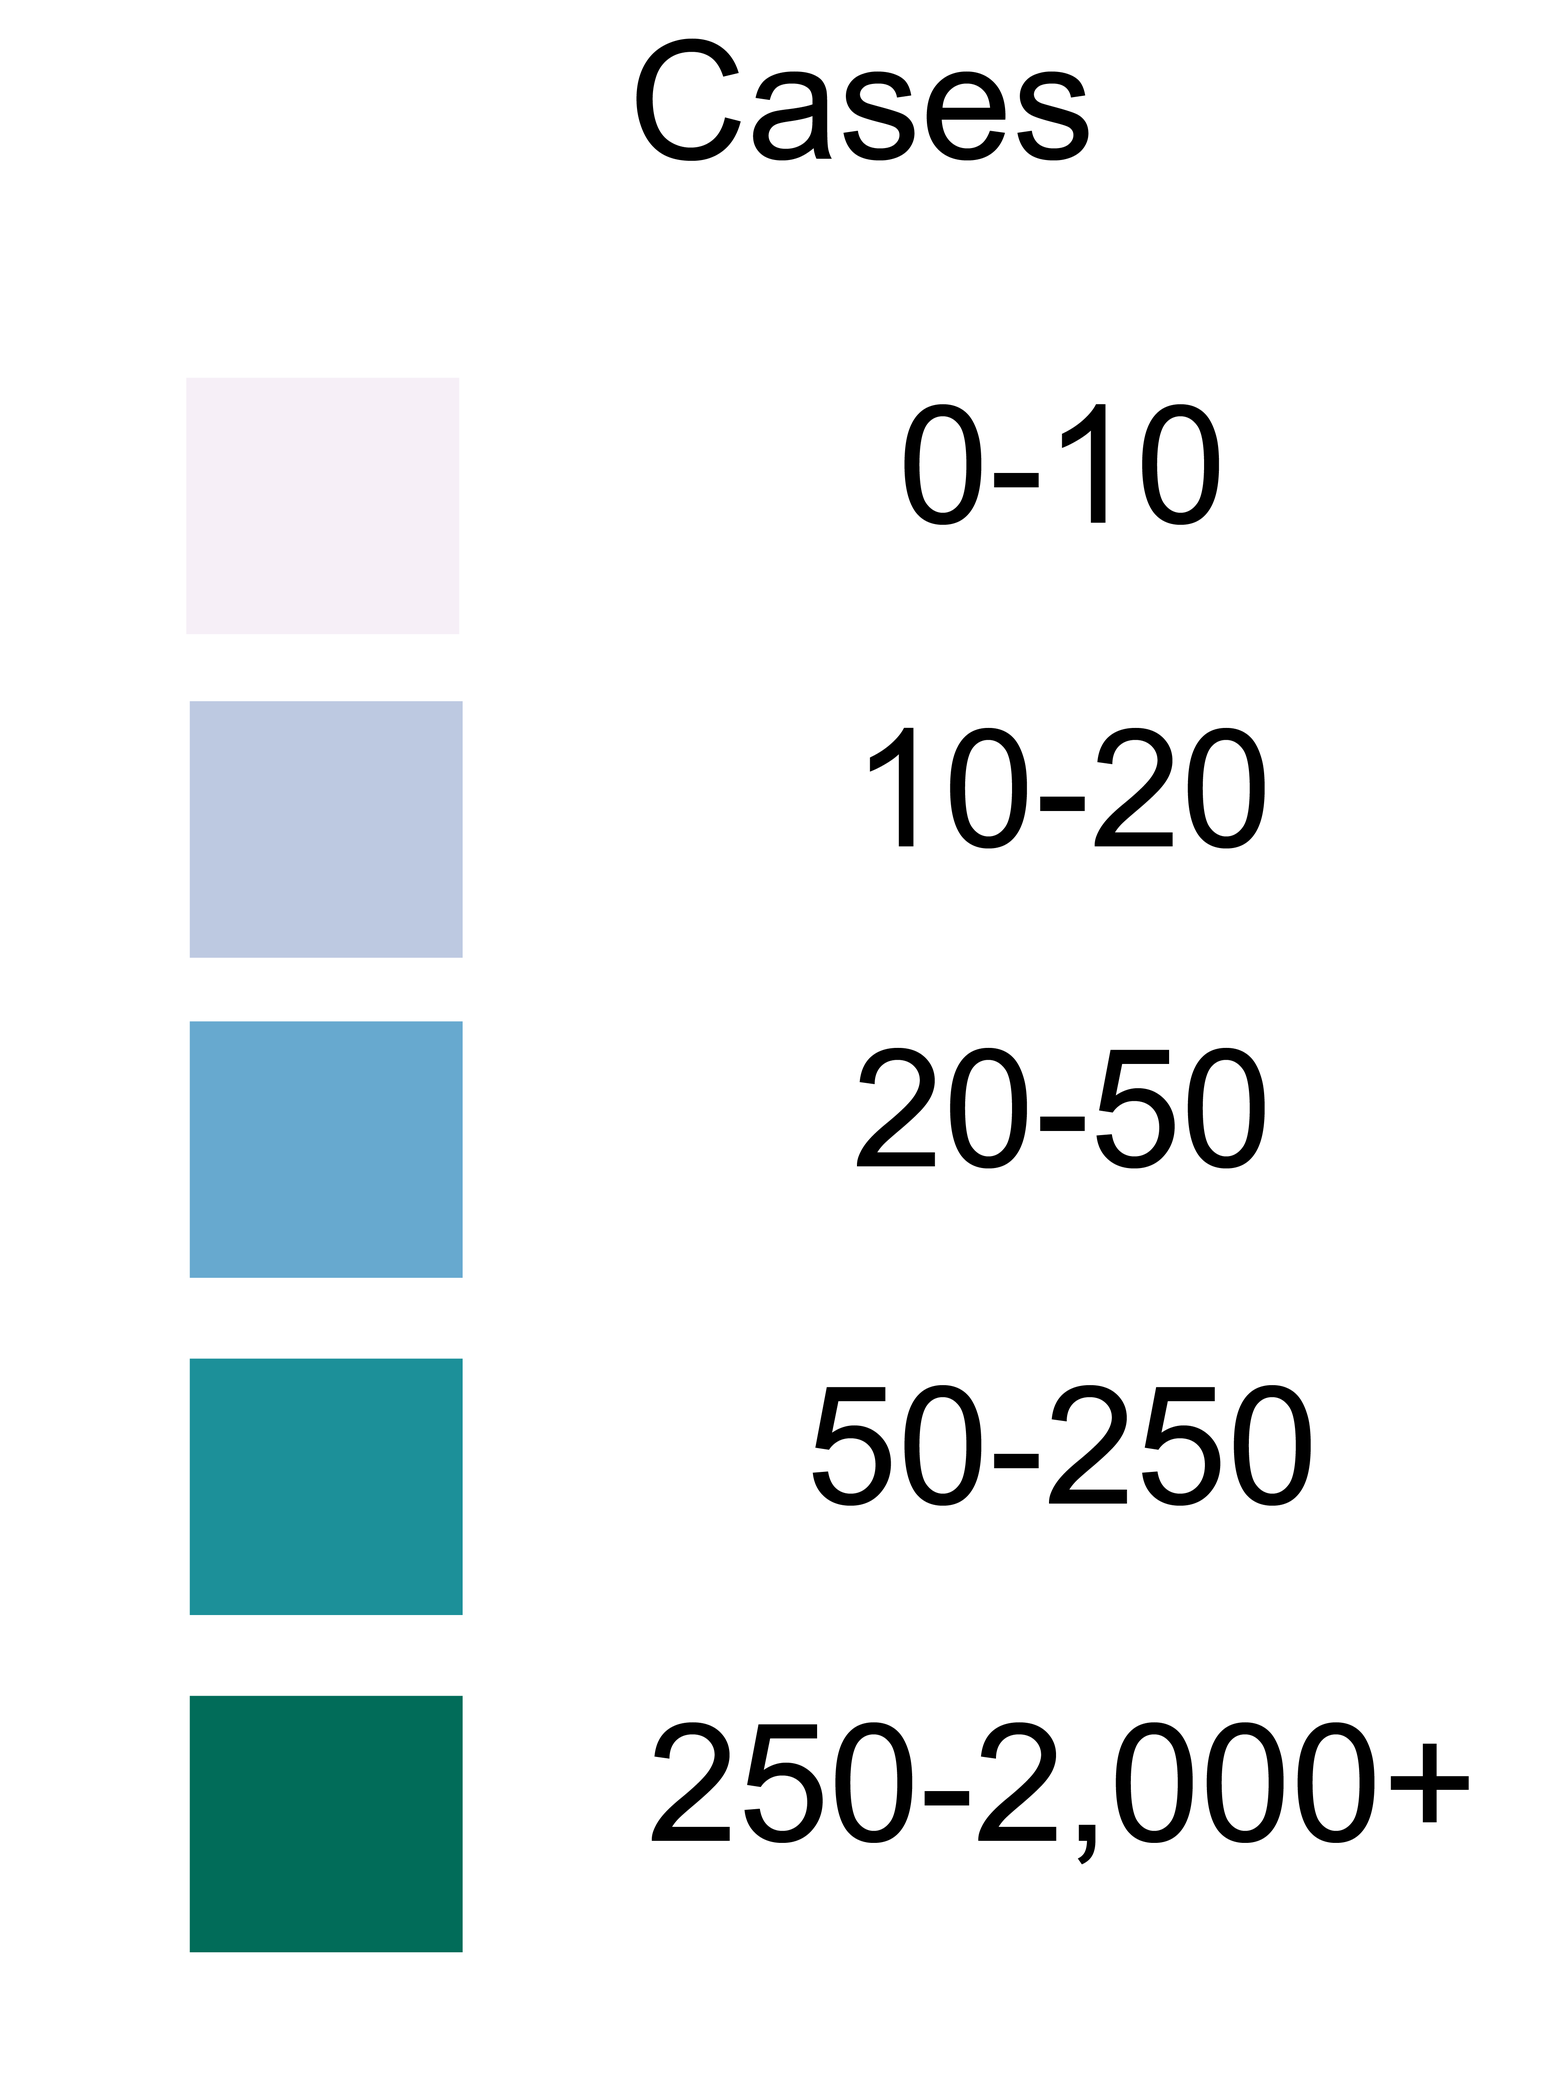
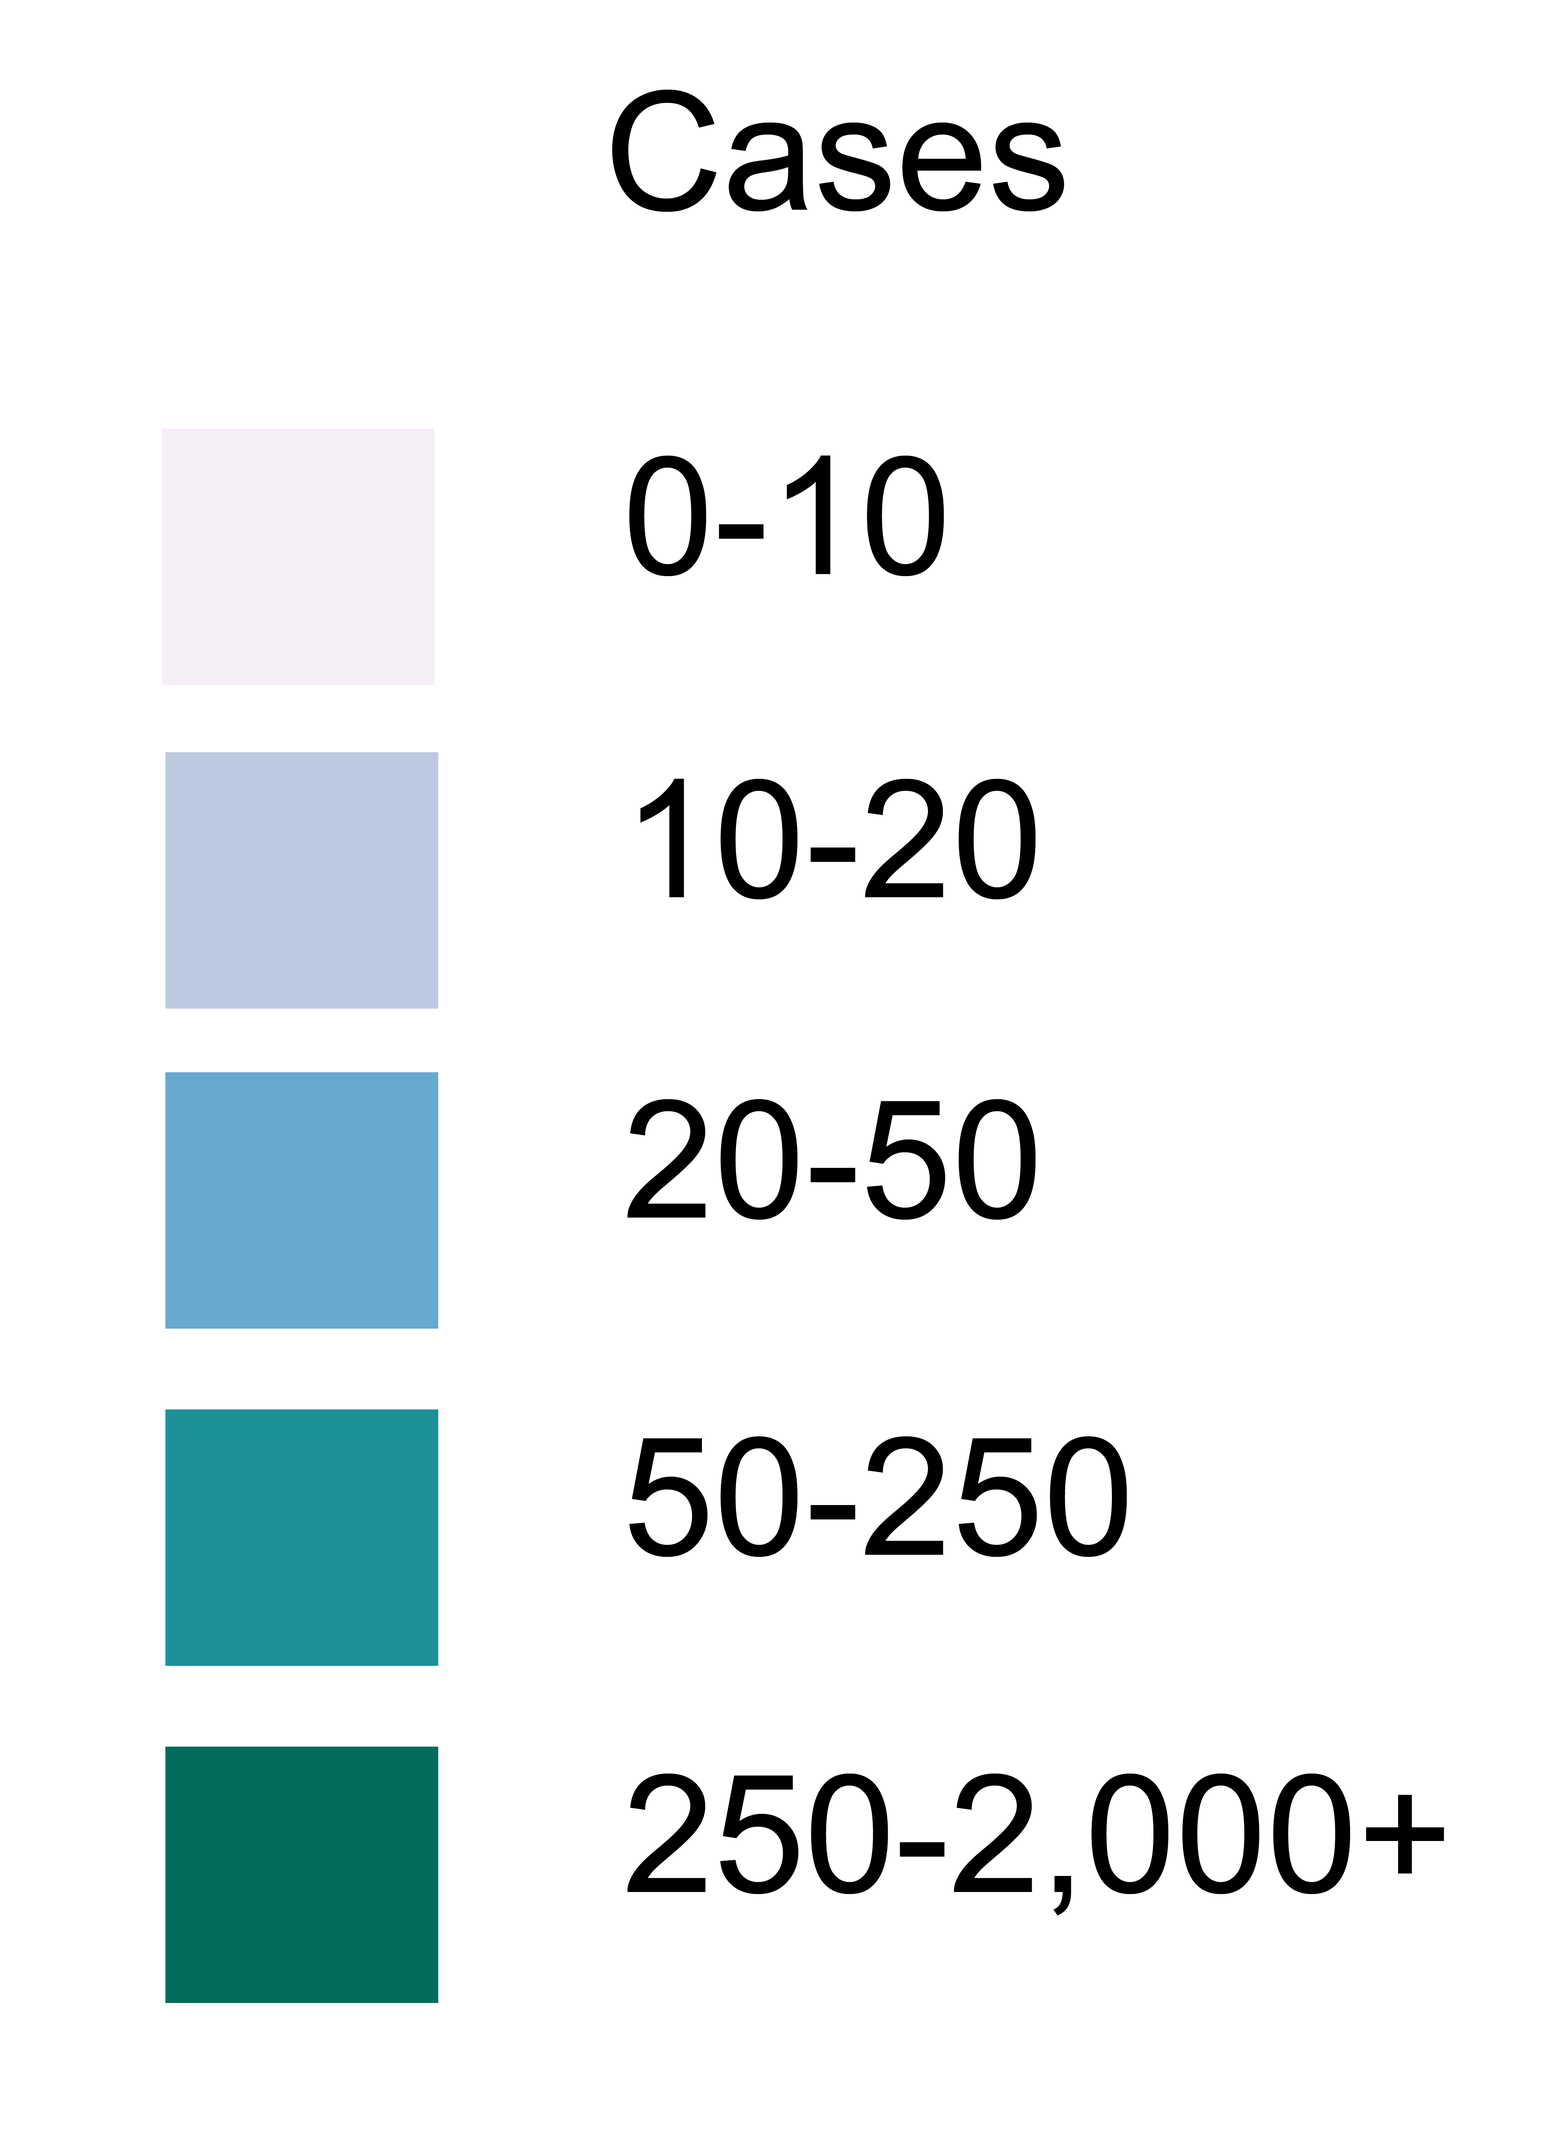
legends text aligned to left, govt intervention panel put in sidebar

diff --git a/index.html b/index.html
@@ -9,10 +9,10 @@
   <link href="https://fonts.googleapis.com/css?family=Poppins:300,400,500,600,700,800,900" rel="stylesheet">
 
   <link rel="stylesheet" href="https://stackpath.bootstrapcdn.com/font-awesome/4.7.0/css/font-awesome.min.css">
+  <link rel="stylesheet" href="css/africa_map.css" type="text/css" />
   <link rel="stylesheet" href="css/style.css">
   <link rel="stylesheet" href="leaflet/leaflet.css" type="text/css" />
   <script src="leaflet/leaflet.js" charset="utf-8"></script>
-  <link rel="stylesheet" href="css/africa_map.css" type="text/css" />
 
   <script src="data/africa_data.geojson" charset="utf-8"></script>
 
@@ -26,17 +26,17 @@
     <nav id="sidebar">
       <div>
         <div class="img logo rounded mb-30">
-          <a href="index.html" >
-            <p style="font-size:6.6rem;color:white;text-align:center;top:-53px;position:relative;">PACA</p>
-            <p style="display:inline-block;color:white;top:-128px;position:relative;text-align:justify;left:1em;font-size:24px"><span style="font-size:44px;margin-bottom:-37px;">PAN AFRICAN</span><span
-                style="margin-bottom:-33px;font-size:44px;word-spacing:86px;">COVID 19</span><span style="letter-spacing:11px;font-size:44px">ANALYSIS</span></p>
+          <a href="index.html">
+            <p style="font-size:5.6rem;color:white;text-align:center;top:-44px;position:relative;">PACA</p>
+            <p style="display:inline-block;color:white;top:-124px;position:relative;text-align:justify;left:1.7em;font-size:24px"><span style="font-size:38px;margin-bottom:-37px;">PAN AFRICAN</span><span
+                style="margin-bottom:-33px;font-size:35px;word-spacing:86px;">COVID 19</span><span style="letter-spacing:11px;font-size:36px">ANALYSIS</span></p>
           </a>
         </div>
         <div class="p-4 pt-5" style="max-height: 66vh;overflow: auto;">
           <div>
             <ul class="list-unstyled components mb-5">
               <li id="visualize" style="display:block">
-                <a href="#homeSubmenu" data-toggle="collapse" aria-expanded="false" class="dropdown-toggle">Infrastructure</a>
+                <a href="#homeSubmenu" data-toggle="collapse" aria-expanded="false" class="dropdown-toggle" onclick="hide()">Infrastructure</a>
                 <ul class="collapse list-unstyled" id="homeSubmenu">
                   <li>
                     <a href="#" onclick="ventilators_layer()">Ventilators</a>
@@ -45,7 +45,7 @@
                     <a href="#" onclick="icus_layer()">ICU Beds</a>
                   </li>
                 </ul>
-                <a href="#homeSubmenu2" data-toggle="collapse" aria-expanded="false" class="dropdown-toggle">Population</a>
+                <a href="#homeSubmenu2" data-toggle="collapse" aria-expanded="false" class="dropdown-toggle" onclick="hide()">Population</a>
                 <ul class="collapse list-unstyled" id="homeSubmenu2">
                   <li>
                     <a href="#" onclick="popn_density_layer()">Population Density</a>
@@ -76,22 +76,25 @@
                     <a href="#" onclick="deaths_concn_layer()">Deaths per 100,000 people</a>
                   </li>
                 </ul>
-                <a href="#homeSubmenu3" data-toggle="collapse" aria-expanded="false" class="dropdown-toggle">Response</a>
+                <a href="#homeSubmenu3" data-toggle="collapse" aria-expanded="false" class="dropdown-toggle" onclick="hide()">Government Intervention</a>
                 <ul class="collapse list-unstyled" id="homeSubmenu3">
-                  <br />
-                  <h6><strong>Government Intervention</strong></h6>
                   <li>
-                    <a href="#" onclick="govt_intervention_layer(this)" id="fiscal">Fiscal</a>
+                    <a href="#" onclick="govt_intervention_layer(this); show();" id="fiscal">Fiscal</a>
                   </li>
                   <li>
-                    <a href="#" onclick="govt_intervention_layer(this)" id="monetary">Monetary</a>
+                    <a href="#" onclick="govt_intervention_layer(this); show();" id="monetary">Monetary</a>
                   </li>
                   <li>
-                    <a href="#" onclick="govt_intervention_layer(this)" id="exchange">Exchange</a>
+                    <a href="#" onclick="govt_intervention_layer(this); show();" id="exchange">Exchange</a>
                   </li>
                   <li>
-                    <a href="#" onclick="govt_intervention_layer(this)" id="country">Country Response</a>
+                    <a href="#" onclick="govt_intervention_layer(this); show();" id="country">Other Measures</a>
                   </li>
+                  <div id="info">
+                    <p style="text-align:center;">
+                      Click on country to view data
+                    </p>
+                  </div>
                 </ul>
               </li>
               <li id="interrogate" style="display:none">
@@ -155,10 +158,9 @@
 
       <div class="col-xs-12" id="map">
         <div id="feature_infos">
-          <span class="close" id="closebtn">X</span>
           <p style="margin-bottom:0;font-size:20px;">Click on a country</p>
-          <div id="info"></div>
         </div>
+        <a style="color:#f8b739;" class="source" type="button" target="_blank" href="https://docs.google.com/spreadsheets/d/1tRF8gjyRd0oA2sSpTKmZqambggZzUM0YiED6KqF8H8M/edit#gid=1584663082">Sources</a>
         <div class="logo1">
           <img style="width:56%;" class="gg_logo" src="images/GG_Logo2.png">
         </div>
@@ -192,15 +194,30 @@
   <script type="text/javascript" src="js/country_govt_map.js"></script>
 
   <script type="text/javascript">
-    $("#closebtn").off().on("click", function() {
-      $("#info").toggle();
-    });
-    $(document).click(function(e) {
-      if ($(e.target).closest('#info, #closebtn').length == 0) {
-        $("#info").show();
-      }
-    })
-  </script>
+  function hide() {
+  var x = document.getElementById("info");
+  if (x.style.display === "none") {
+
+  } else {
+    x.style.display = "none";
+  }
+}
+function show() {
+  var x = document.getElementById("info");
+  if (x.style.display === "block") {
+    } else {
+    x.style.display = "block";
+  }
+}
+  // $("#fiscal").off().on("click", function() {
+  //   $("#info").toggle();
+  // });
+  // $(document).click(function(e) {
+  //   if ($(e.target).closest('#info, #fiscal').length == 0) {
+  //     $("#info").hide();
+  //   }
+  // })
+</script>
 </body>
 
 </html>

diff --git a/js/country_govt_map.js b/js/country_govt_map.js
@@ -35,7 +35,7 @@ let govt_intervention_layer = (element) => {
         african_data.eachLayer(function(layer) {
           let country_ = layer.feature.properties.COUNTRY;
           layer.on('click', function(e) {
-            document.getElementById("info").innerHTML = '<strong>Country: </strong>' + country_ + '<br>' + '<strong>Population: </strong>' + govt_intervention_obj[country_][0]+ '<br>' + '<strong>Introduction: </strong>' + govt_intervention_obj[country_][1]+ '<br>' + '<strong>Fiscal Policy: </strong>' + govt_intervention_obj[country_][2];
+            document.getElementById("info").innerHTML = '<strong>Country: </strong>' + country_ + '<br>' + '<strong>Population: </strong>' + govt_intervention_obj[country_][0] + '<br>' + '<strong>Introduction: </strong>' + govt_intervention_obj[country_][1] + '<br>' + '<strong>Fiscal Policy: </strong>' + govt_intervention_obj[country_][2];
           });
         });
 
@@ -55,7 +55,7 @@ let govt_intervention_layer = (element) => {
         }
         let legend_child = document.createElement("IMG")
         legend_child.setAttribute("src", "images/fiscal_legend.png");
-        legend_child.setAttribute("class", "deaths")
+        legend_child.setAttribute("class", "fiscal")
         legend_parent.appendChild(legend_child);
       } else if (element.id === "monetary") {
         let govt_intervention_obj = {}
@@ -79,7 +79,7 @@ let govt_intervention_layer = (element) => {
         african_data.eachLayer(function(layer) {
           let country_ = layer.feature.properties.COUNTRY;
           layer.on('click', function(e) {
-            document.getElementById("info").innerHTML = '<strong>Country: </strong>' + country_ + '<br>' + '<strong>Population: </strong>' + govt_intervention_obj[country_][0]+ '<br>' + '<strong>Introduction: </strong>' + govt_intervention_obj[country_][1]+ '<br>' + '<strong>Monetary and Macro financial: </strong>' + govt_intervention_obj[country_][2];
+            document.getElementById("info").innerHTML = '<strong>Country: </strong>' + country_ + '<br>' + '<strong>Population: </strong>' + govt_intervention_obj[country_][0] + '<br>' + '<strong>Introduction: </strong>' + govt_intervention_obj[country_][1] + '<br>' + '<strong>Monetary and Macro financial: </strong>' + govt_intervention_obj[country_][2];
           });
         });
 
@@ -99,7 +99,7 @@ let govt_intervention_layer = (element) => {
         }
         let legend_child = document.createElement("IMG")
         legend_child.setAttribute("src", "images/fiscal_legend.png");
-        legend_child.setAttribute("class", "deaths")
+        legend_child.setAttribute("class", "fiscal")
         legend_parent.appendChild(legend_child);
       } else if (element.id === "exchange") {
         let govt_intervention_obj = {}
@@ -123,7 +123,7 @@ let govt_intervention_layer = (element) => {
         african_data.eachLayer(function(layer) {
           let country_ = layer.feature.properties.COUNTRY;
           layer.on('click', function(e) {
-            document.getElementById("info").innerHTML = '<strong>Country: </strong>' + country_ + '<br>' + '<strong>Population: </strong>' + govt_intervention_obj[country_][0]+ '<br>' + '<strong>Introduction: </strong>' + govt_intervention_obj[country_][1]+ '<br>' + '<strong>Exchange rate and balance of payments: </strong>' + govt_intervention_obj[country_][2];
+            document.getElementById("info").innerHTML = '<strong>Country: </strong>' + country_ + '<br>' + '<strong>Population: </strong>' + govt_intervention_obj[country_][0] + '<br>' + '<strong>Introduction: </strong>' + govt_intervention_obj[country_][1] + '<br>' + '<strong>Exchange rate and balance of payments: </strong>' + govt_intervention_obj[country_][2];
           });
         });
 
@@ -143,7 +143,7 @@ let govt_intervention_layer = (element) => {
         }
         let legend_child = document.createElement("IMG")
         legend_child.setAttribute("src", "images/fiscal_legend.png");
-        legend_child.setAttribute("class", "deaths")
+        legend_child.setAttribute("class", "fiscal")
         legend_parent.appendChild(legend_child);
       } else if (element.id === "country") {
         let country_intervention_obj = {}
@@ -195,24 +195,10 @@ let govt_intervention_layer = (element) => {
 
         african_data.eachLayer(function(layer) {
           let country_ = layer.feature.properties.COUNTRY;
-          layer.bindPopup(
-            '<strong>Country:</strong> ' + country_ +
-            '<br>' + '<strong>Population:</strong> ' + country_intervention_obj[country_][0] +
-            '<br>' + '<strong>Humanitarian Exemption:</strong> ' + country_intervention_obj[country_][1] +
-            '<br>' + '<strong>Lock Down:</strong> ' + country_intervention_obj[country_][2] +
-            '<br>' + '<strong>Movement Restrictions:</strong> ' + country_intervention_obj[country_][3] +
-            '<br>' + '<strong>Public health measures:</strong> ' + country_intervention_obj[country_][4] +
-            '<br>' + '<strong>Social and economic measures:</strong> ' + country_intervention_obj[country_][5] +
-            '<br>' + '<strong>Social distancing:</strong> ' + country_intervention_obj[country_][6],
-            {
-              autoPan: false
-            }
-          );
-          layer.on('mouseover', function(e) {
-            this.openPopup();
-          });
-          layer.on('mouseout', function(e) {
-            this.closePopup();
+          layer.on('click', function(e) {
+            document.getElementById("info").innerHTML = '<strong>Country: </strong>' + country_ + '<br>' + '<strong>Population: </strong>' + country_intervention_obj[country_][0] + '<br>' + '<strong>Humanitarian Exemption: </strong>' + country_intervention_obj[country_][1] +
+             '<br>' + '<strong>Lock Down: </strong>' + country_intervention_obj[country_][2] + '<br>' + '<strong>Movement Restrictions: </strong>' + country_intervention_obj[country_][3] +'<br>' + '<strong>Public health measures: </strong>' + country_intervention_obj[country_][4] +
+             '<br>' + '<strong>Social and economic measures: </strong>' + country_intervention_obj[country_][5] + '<br>' + '<strong>Social distancing: </strong>' + country_intervention_obj[country_][6];
           });
         });
         let legend_parent = document.getElementsByClassName("legend")[0]

diff --git a/css/africa_map.css b/css/africa_map.css
@@ -34,10 +34,10 @@
 
 .vent {
   z-index: 1000;
-  width: 26%;
+  width: 15%;
   position: absolute;
-  bottom: -3.5em;
-  right: -5em;
+  bottom: 6.5em;
+  right: 0em;
 }
 
 .HIV {
@@ -58,10 +58,10 @@
 
 .elderly {
   z-index: 1000;
-  width: 29%;
+  width: 12%;
   position: absolute;
-  bottom: -75px;
-  right: -126px;
+  bottom: 94px;
+  right: 0px;
 }
 
 .cases {
@@ -82,7 +82,15 @@
 
 .deaths {
   z-index: 1000;
-  width: 12%;
+  width: 10%;
+  position: absolute;
+  bottom: 95px;
+  right: 3px;
+}
+
+.fiscal {
+  z-index: 1000;
+  width: 14%;
   position: absolute;
   bottom: 95px;
   right: 3px;
@@ -107,6 +115,18 @@
   position: absolute;
   bottom: 9px;
   right: -9em;
+}
+
+.source {
+  background-color: #4e4e4e;
+  padding: 8px;
+  z-index: 10000;
+  right: 3em;
+  position: absolute;
+  top: 1em;
+  width: 8%;
+  border-radius: 22px;
+  padding-left: 1.5%;
 }
 
 div #container3 {
@@ -186,7 +206,7 @@ h6 {
 }
 
 #feature_infos {
-  width: 29%;
+  width: 19%;
   background: white;
   position: relative;
   top: 9px;
@@ -199,13 +219,15 @@ h6 {
 }
 
 #info {
-  height: 68vh;
+  height: 55vh;
   overflow: auto;
   border: 1px solid;
-  width: 103%;
+  width: 116%;
   position: relative;
   border: 1px solid #ffffff00;
   border-radius: 7px;
-  left: -5px;
+  left: -25px;
   color: black;
+  background: white;
+  font-size: 14px;
 }

diff --git a/css/style.css b/css/style.css
@@ -4629,7 +4629,7 @@ input[type="button"].btn-block {
   font-size: 1.5em;
   font-weight: 700;
   line-height: 1;
-  color: #000;
+  color: #f00;
   text-shadow: 0 1px 0 #fff;
   opacity: .5; }
   .close:hover {
@@ -8226,7 +8226,7 @@ h1, h2, h3, h4, h5,
     margin-left: -300px; }
   #sidebar .logo {
     background: #e15b26;
-    height: 16em;
+    height: 12em;
    }
     #sidebar .logo span {
       display: block; }
